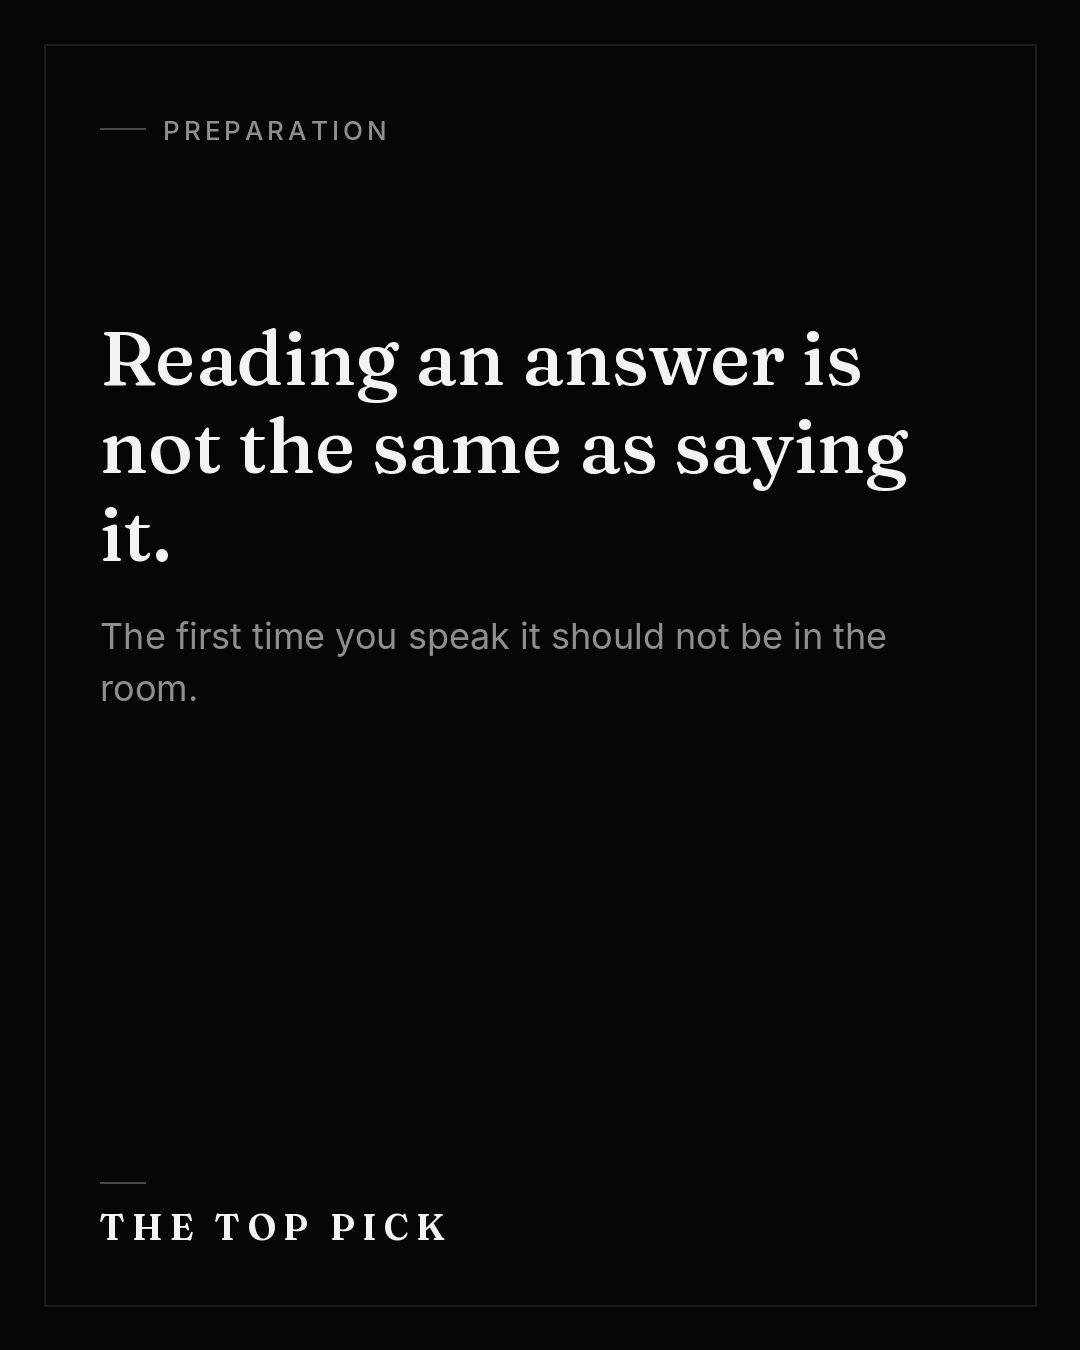
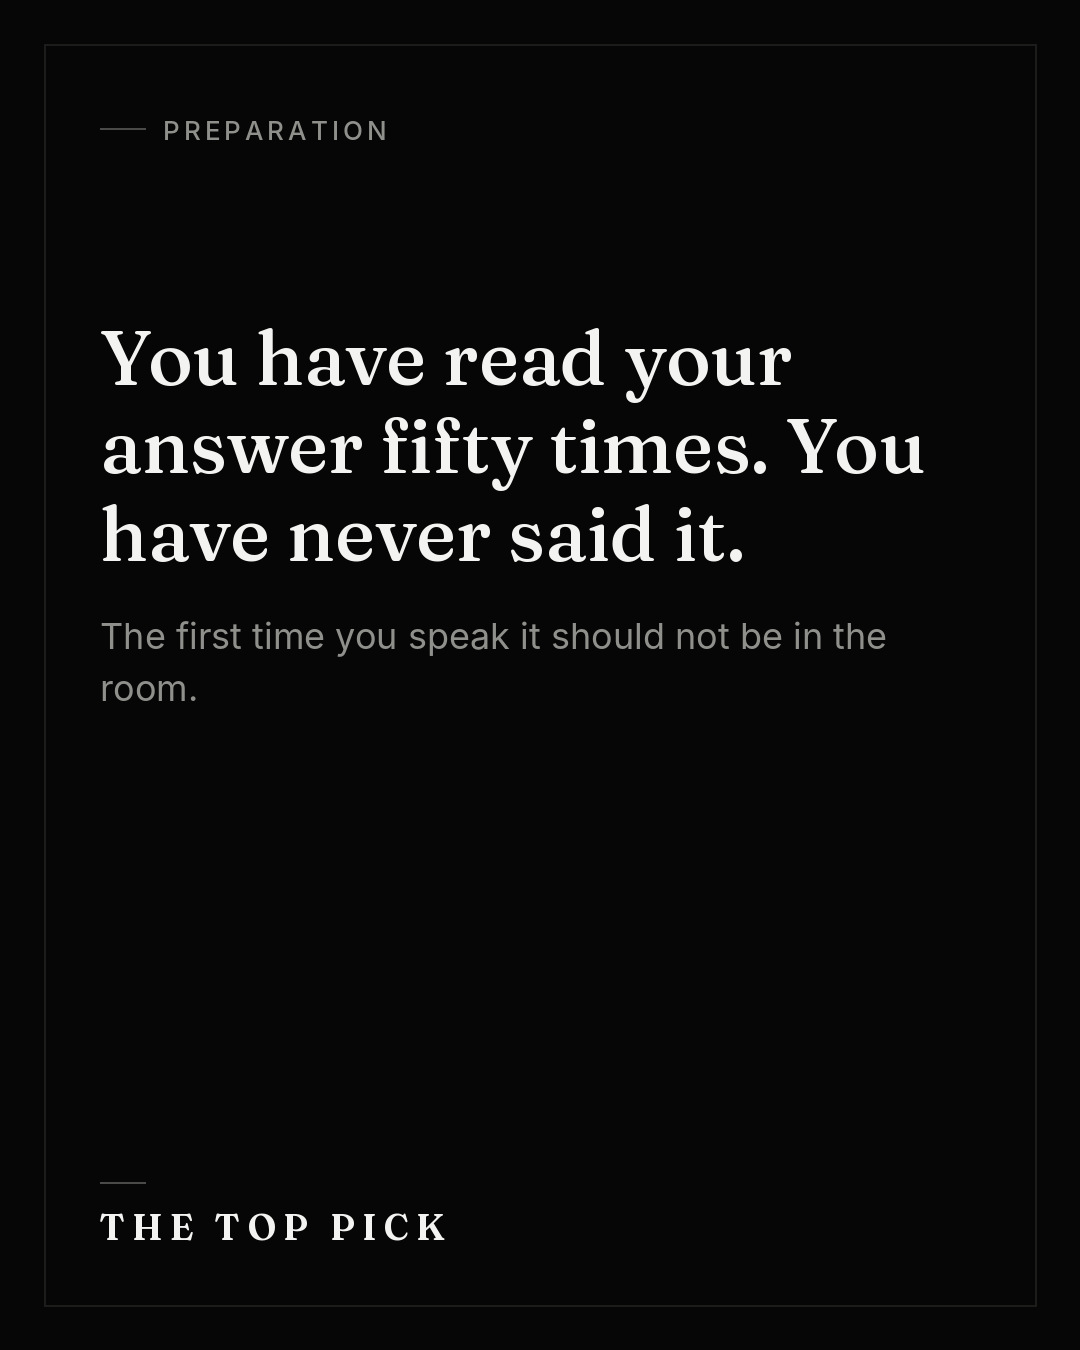
Add D8-X to D14-X extra posts, upgrade four hooks
Claude-Session: https://claude.ai/code/session_01RD2AMbF6tNxGEwSBnGAGyi

Changed region(s): [[0.0917, 0.2489, 0.8556, 0.4356]]

diff --git a/tools/posts_week2_example.py b/tools/posts_week2_example.py
@@ -64,12 +64,12 @@ P('D10-A',Q,'carousel','Everyone makes mistakes on live deals. The question is w
  "\"You just gave the wrong WACC calculation in front of the MD. How do you respond?\"\n\nMost candidates over-apologise and lose the thread. A top pick acknowledges the error calmly and briefly, corrects it if they can see what went wrong, and moves on.\n\nEveryone makes mistakes on live deals. The interviewer is checking whether you can handle pressure without spiralling.",
  '#behavioral','fit-wrong-wacc','insider_reveal','FIT-002','twist'),
 # ---------- D11 Thu 12
-P('D11-I',I,'single','Reading an answer is not the same as saying it.',
- [('Preparation',['Reading an answer is not the same as saying it.','The first time you speak it should not be in the room.'])],
+P('D11-I',I,'single','You have read your answer fifty times. You have never said it.',
+ [('Preparation',['You have read your answer fifty times. You have never said it.','The first time you speak it should not be in the room.'])],
  "An answer that looks right on the page can fall apart out loud. The sentences are longer than you think, and the pauses land in odd places.\n\nSay it out loud before the interview, more than once. That is where the answer becomes yours.",
  '#interviewprep','say-it-out-loud','contrast','brand-voice §5','twist'),
-P('D11-E',E,'carousel','A sell-side process is a funnel. Every step exists to narrow it.',
- [('M&A process',['A sell-side process is a funnel. Every step exists to narrow it.']),
+P('D11-E',E,'carousel','A company is sold in seven steps. Each one removes bidders.',
+ [('M&A process',['A company is sold in seven steps. Each one removes bidders.']),
   ('Open it up',['Teaser','A short, anonymous summary of the business, sent to potential buyers.','NDA','Those interested sign before they see anything more.']),
   ('Give them detail',['Information memorandum','The full document on the business.','First-round bids','Non-binding offers. They cut the list.']),
   ('Narrow it down',['Management presentations','The remaining bidders meet the team.','Binding bids','Final offers, from those still in.']),
@@ -108,8 +108,8 @@ P('D13-I',I,'single','The question you avoid practising is the one you will be a
  [('Preparation',['The question you avoid practising is the one you will be asked.','Most people drill what they are already good at. Start with the one that makes you wince.'])],
  "It is natural to rehearse the answers that feel good. The uncomfortable ones get skipped.\n\nStart with the question you would rather not hear, and say it out loud first.",
  '#interviewprep','practise-the-uncomfortable','insider_reveal','brand-voice §5','twist'),
-P('D13-E',E,'carousel','The three statements are one system. Net income is where it all starts.',
- [('Accounting',['The three statements are one system. Net income is where it all starts.']),
+P('D13-E',E,'carousel','Listing the three statements is not an answer. The loop is.',
+ [('Accounting',['Listing the three statements is not an answer. The loop is.']),
   ('Net income goes two places',['Into retained earnings on the balance sheet.','And it is the starting point of the cash flow statement.']),
   ('The cash flow statement',['It adjusts for non-cash items, then for the balance sheet changes.','Working capital, capex, debt.']),
   ('It closes the loop',['The ending cash balance ties back to the balance sheet.']),
@@ -124,9 +124,9 @@ P('D13-A',Q,'carousel','Nobody believes “I will be here forever.”',
  "\"Where do you see yourself in five years?\"\n\nMost candidates promise to stay forever or name a title. Nobody believes the first, and the second says nothing.\n\nA top pick shows they understand how the job changes at each step: rigour and speed as an analyst, ownership of the model and project as an associate, managing several stakeholders as a VP.\n\nYou cannot promise where you will be. You can know what you want to learn.",
  '#careeradvice','fit-five-years','gap','FIT-156, lead-magnet-fit-answers #7','twist'),
 # ---------- D14 Sun 15
-P('D14-I',I,'single','Look back at the week before you plan the next one.',
- [('Consistency',['Look back at the week before you plan the next one.','One answer that got better, one that still wobbles. That is the whole review.'])],
- "A weekly review does not need to be long. Name one answer that improved and one that still wobbles.\n\nThen the plan for next week writes itself.",
+P('D14-I',I,'single','The question you got wrong this week is the most useful one you saw.',
+ [('Consistency',['The question you got wrong this week is the most useful one you saw.','Write it down, fix it, and say the corrected answer out loud. That is the whole review.'])],
+ "A weekly review does not need to be long. Pick the question you got wrong, work out why, and say the corrected answer out loud.\n\nThen the plan for next week writes itself.",
  '#studyroutine','weekly-review','contrast','progression-system-spec.md','twist'),
 P('D14-E',E,'carousel','A great LBO candidate is boring on purpose.',
  [('LBO',['A great LBO candidate is boring on purpose.']),
@@ -144,4 +144,68 @@ P('D14-A',Q,'carousel','“Cash is cheaper, so it is more accretive” is true o
   ('The finish',['State your assumptions: all debt, no fees, no synergies.','Then give the rule, and one number to back it.'])],
  "\"An acquirer buys the target with cash and debt. What decides whether it is accretive?\"\n\nMost candidates say cash is cheaper. A top pick compares two numbers: the target's earnings yield, meaning earnings divided by price paid, and the after-tax cost of the debt. A yield above the after-tax cost is accretive.\n\nIllustrative case: a target earning 50 for 500 yields 10%. Debt at 6% with a 25% tax rate costs 4.5% after tax, so the deal adds 27.5 of earnings. Assumes all debt, no fees, no synergies.",
  '#accretion','ma-accretion-cash-debt','gap','lead-magnet-30-questions #19 (MA-001 reworked)','puzzle'),
+
+]
+POSTS += [
+P('D8-X',E,'carousel','Five answers every interviewer has already heard today. Rewritten.',
+ [('Before and after',['Five answers every interviewer has already heard today. Rewritten.']),
+  ('Rewrite 1 of 5',['Why investment banking?','Before: “I am passionate about finance and I love the pace.”','After: A conversation that planted the idea. The degree chosen because of it. Internships that tested it.']),
+  ('Rewrite 2 of 5',['Why this bank?','Before: “Great culture and a strong reputation.”','After: Two reasons you could only say about this bank, each tied to a coffee chat, an info session or a deal.']),
+  ('Rewrite 3 of 5',['Your biggest weakness?','Before: “I am a perfectionist.”','After: A real weakness, what you are doing about it, and the sign that it is improving.']),
+  ('Rewrite 4 of 5',['Any questions for me?','Before: “What does the training programme look like?”','After: “You mentioned you changed groups. What made you move?”']),
+  ('Rewrite 5 of 5',['Walk me through your CV.','Before: A list of jobs, in order.','After: Start with the first decision that mattered. Give a “because” for each move. End with why you are in this room.']),
+  ('The finish',['Same facts. Different answer.','A generic answer becomes a top-pick answer when it gains evidence, structure and a reason.'])],
+ "Five questions, five answers an interviewer has already heard, and the rewrite for each.\n\nWhy banking: a story of growing commitment. Why this bank: reasons tied to something you saw first-hand. Weakness: a real one, with the fix. Questions for them: built from what they just said. Your CV: a continuation, ending on why you are in the room.\n\nSame facts. Different answer.",
+ '#interviewanswers','before-after-five-answers','numbered','FIT-101, 148, 150, 161, 149 (lead-magnet-fit-answers)','numbered'),
+P('D9-X',E,'carousel','Two of the three most common rejection reasons bankers gave us are not technical.',
+ [('What we heard',['Two of the three most common rejection reasons bankers gave us are not technical.']),
+  ('Who we asked',['We asked 30+ bankers why candidates get rejected.','They came from Rothschild & Co, Goldman Sachs, J.P. Morgan, Citi, RBC, Santander and Bank of America.']),
+  ('Reasons 1 and 2',['1   An unstructured “walk me through your CV.”','2   A generic “why our bank.”','Both are fit answers. Both can be fixed before the interview.']),
+  ('Reason 3',['3   Weak accounting.','The easiest one to fix, because every question has a right answer.']),
+  ('The finish',['Fit is not the soft part of the interview.','It is where two of the three rejections started.'])],
+ "We asked 30+ bankers, from Rothschild & Co, Goldman Sachs, J.P. Morgan, Citi, RBC, Santander and Bank of America, why candidates get rejected.\n\nThe three most common reasons: an unstructured walk-through of the CV, a generic why-this-bank, and weak accounting. Two of the three are fit answers.\n\nAccounting is the easiest to fix because every question has a right answer.",
+ '#interviewmistakes','rejection-reasons-bankers','gap','emails-0-1-final.md (30 bankers, Valentin network)','twist'),
+P('D10-X',E,'carousel','Five unsexy habits behind interview answers that stand out.',
+ [('Unsexy habits',['Five unsexy habits behind interview answers that stand out.']),
+  ('Habit 1',['Say the assumption first.','“Assuming a 25% tax rate.” Then go statement by statement.']),
+  ('Habit 2',['Say it out loud.','An answer you have only read is not yet an answer you can give.']),
+  ('Habit 3',['One example, not three.','The second example is where most answers lose the room.']),
+  ('Habit 4',['Own an error once.','Acknowledge it, correct it, move on.']),
+  ('Habit 5',['End on why you are in this room.','Every answer should point to the job you are interviewing for.']),
+  ('The finish',['Unsexy habits. Repeated.','That is what calm delivery usually is.'])],
+ "Nothing here is clever. All of it is repeatable.\n\nState the assumption first. Say the answer out loud. Give one example, not three. Own an error once and move on. End on why you are in the room.\n\nCalm delivery is mostly habits you have repeated until they stop costing effort.",
+ '#interviewtips','unsexy-habits','contrast','D2-A, FIT-002, FIT-149 (reframed)','numbered'),
+P('D11-X',E,'carousel','If your “why Goldman Sachs” also works for J.P. Morgan, it is not an answer.',
+ [('Why this bank',['If your “why Goldman Sachs” also works for J.P. Morgan, it is not an answer.']),
+  ('What most candidates say',['“Great culture, strong reputation, top league tables.”','It is on both websites.']),
+  ('The swap test',['Put the other bank’s name into your answer.','If it still holds, it was never about either.']),
+  ('What first-hand sounds like',['A coffee chat.','An info session.','A deal the team worked on.']),
+  ('The finish',['Rewrite the evidence, not the sentences.'])],
+ "\"Why us, and not our biggest competitor?\"\n\nIf your answer for one bank works word for word for another, it is not an answer. Swap the names and test it.\n\nThe fix is evidence: a coffee chat, an info session, a deal the team worked on. Rewrite the evidence, not the sentences.",
+ '#whythisbank','swap-the-bank-name','contrast','FIT-148, lead-magnet-fit-answers #2','twist'),
+P('D12-X',E,'carousel','How I would explain EBITDA to a 9-year-old with a lemonade stand.',
+ [('EBITDA explained',['How I would explain EBITDA to a 9-year-old with a lemonade stand.']),
+  ('The stand (illustrative)',['100 cups at 2 each: 200 of sales.','Lemons, cups and a helper: 120.','What is left from selling lemonade: 80. That is EBITDA.']),
+  ('What it leaves out',['Interest on the loan used to buy the stand.','Tax.','The table wearing out.']),
+  ('Why it is useful',['Two stands can be compared on the lemonade alone, whatever they owe or however they are taxed.']),
+  ('Where it misleads',['A stand that has to replace its table every year looks better on EBITDA than it is.','Know the formula, then know where it breaks.'])],
+ "Explaining EBITDA to a 9-year-old with a lemonade stand: sell 100 cups at 2, spend 120 on lemons, cups and a helper, and 80 is left. That is EBITDA, before interest on the loan, tax and the table wearing out.\n\nIt lets you compare two stands on the lemonade alone. It misleads when one stand has to keep replacing its table.\n\nFigures are illustrative.",
+ '#EBITDA','ebitda-lemonade-stand','insider_reveal','ACC-103, lead-magnet-fit-answers #13','twist'),
+P('D13-X',E,'carousel','You drilled the DCF five times and have never said a fit answer out loud.',
+ [('The prep gap',['You drilled the DCF five times and have never said a fit answer out loud.']),
+  ('Why technicals feel like prep',['They have right answers, so practising them feels like progress.']),
+  ('Why fit does not',['Fit questions feel like conversation, so most people improvise.']),
+  ('Where it shows',['Improvised fit answers are where candidates start sounding like everyone else.']),
+  ('The finish',['Say one fit answer out loud today.','Then say it again tomorrow.'])],
+ "Technicals feel like preparation because they have right answers. Fit questions feel like conversation, so most people improvise.\n\nThat is where candidates start sounding like everyone else.\n\nSay one fit answer out loud, then say it again tomorrow.",
+ '#fitquestions','fit-never-said-aloud','contrast','lead-magnet-fit-answers Part A','twist'),
+P('D14-X',E,'carousel','Four one-line technical answers, rewritten.',
+ [('Before and after',['Four one-line technical answers, rewritten.']),
+  ('Rewrite 1 of 4',['Why EBITDA, not net income?','Before: “It removes interest, tax and non-cash items.”','After: Operating profit before the capital structure, tax and accounting choices, so companies compare. It matches enterprise value, and it ignores capex.']),
+  ('Rewrite 2 of 4',['Precedents or comps?','Before: “Precedents.”','After: Precedents, because they include a control premium that comps do not.']),
+  ('Rewrite 3 of 4',['Depreciation goes up by 10.','Before: “Net income goes down and you add it back.”','After: At a 25% tax rate, net income falls 7.5, and cash from operations rises 2.5.']),
+  ('Rewrite 4 of 4',['Terminal value in a DCF.','Before: “It is the value after the forecast.”','After: Usually most of the total value, so the output is sensitive. Show a range and cross-check the two methods.']),
+  ('The finish',['Same question. One extra sentence of why.'])],
+ "Four technical answers that are correct and forgettable, and the sentence that upgrades each.\n\nEBITDA: add what it is for, and where it misleads. Precedents: add the control premium. Depreciation: state the tax rate and the numbers. Terminal value: add that it is most of the value, so show a range.\n\nSame question. One extra sentence of why.",
+ '#technicalinterview','technical-before-after','numbered','D4-A, D5-A, D2-A, D3-E (recap)','numbered'),
 ]

diff --git a/tools/engine.py b/tools/engine.py
@@ -56,4 +56,5 @@ def kinds_for(pillar,si,n,slide):
         if si==1: return ['M']+['B']*(len(b)-1)
         if si==2: return ['h']+['W']*(len(b)-1)
         if si==0: return ['H']+['B']*(len(b)-1)
-    return [first]+['B']*(len(b)-1)
+    ks=[first]+['B']*(len(b)-1)
+    return [('W' if t.startswith('After:') else k) for t,k in zip(b,ks)]
